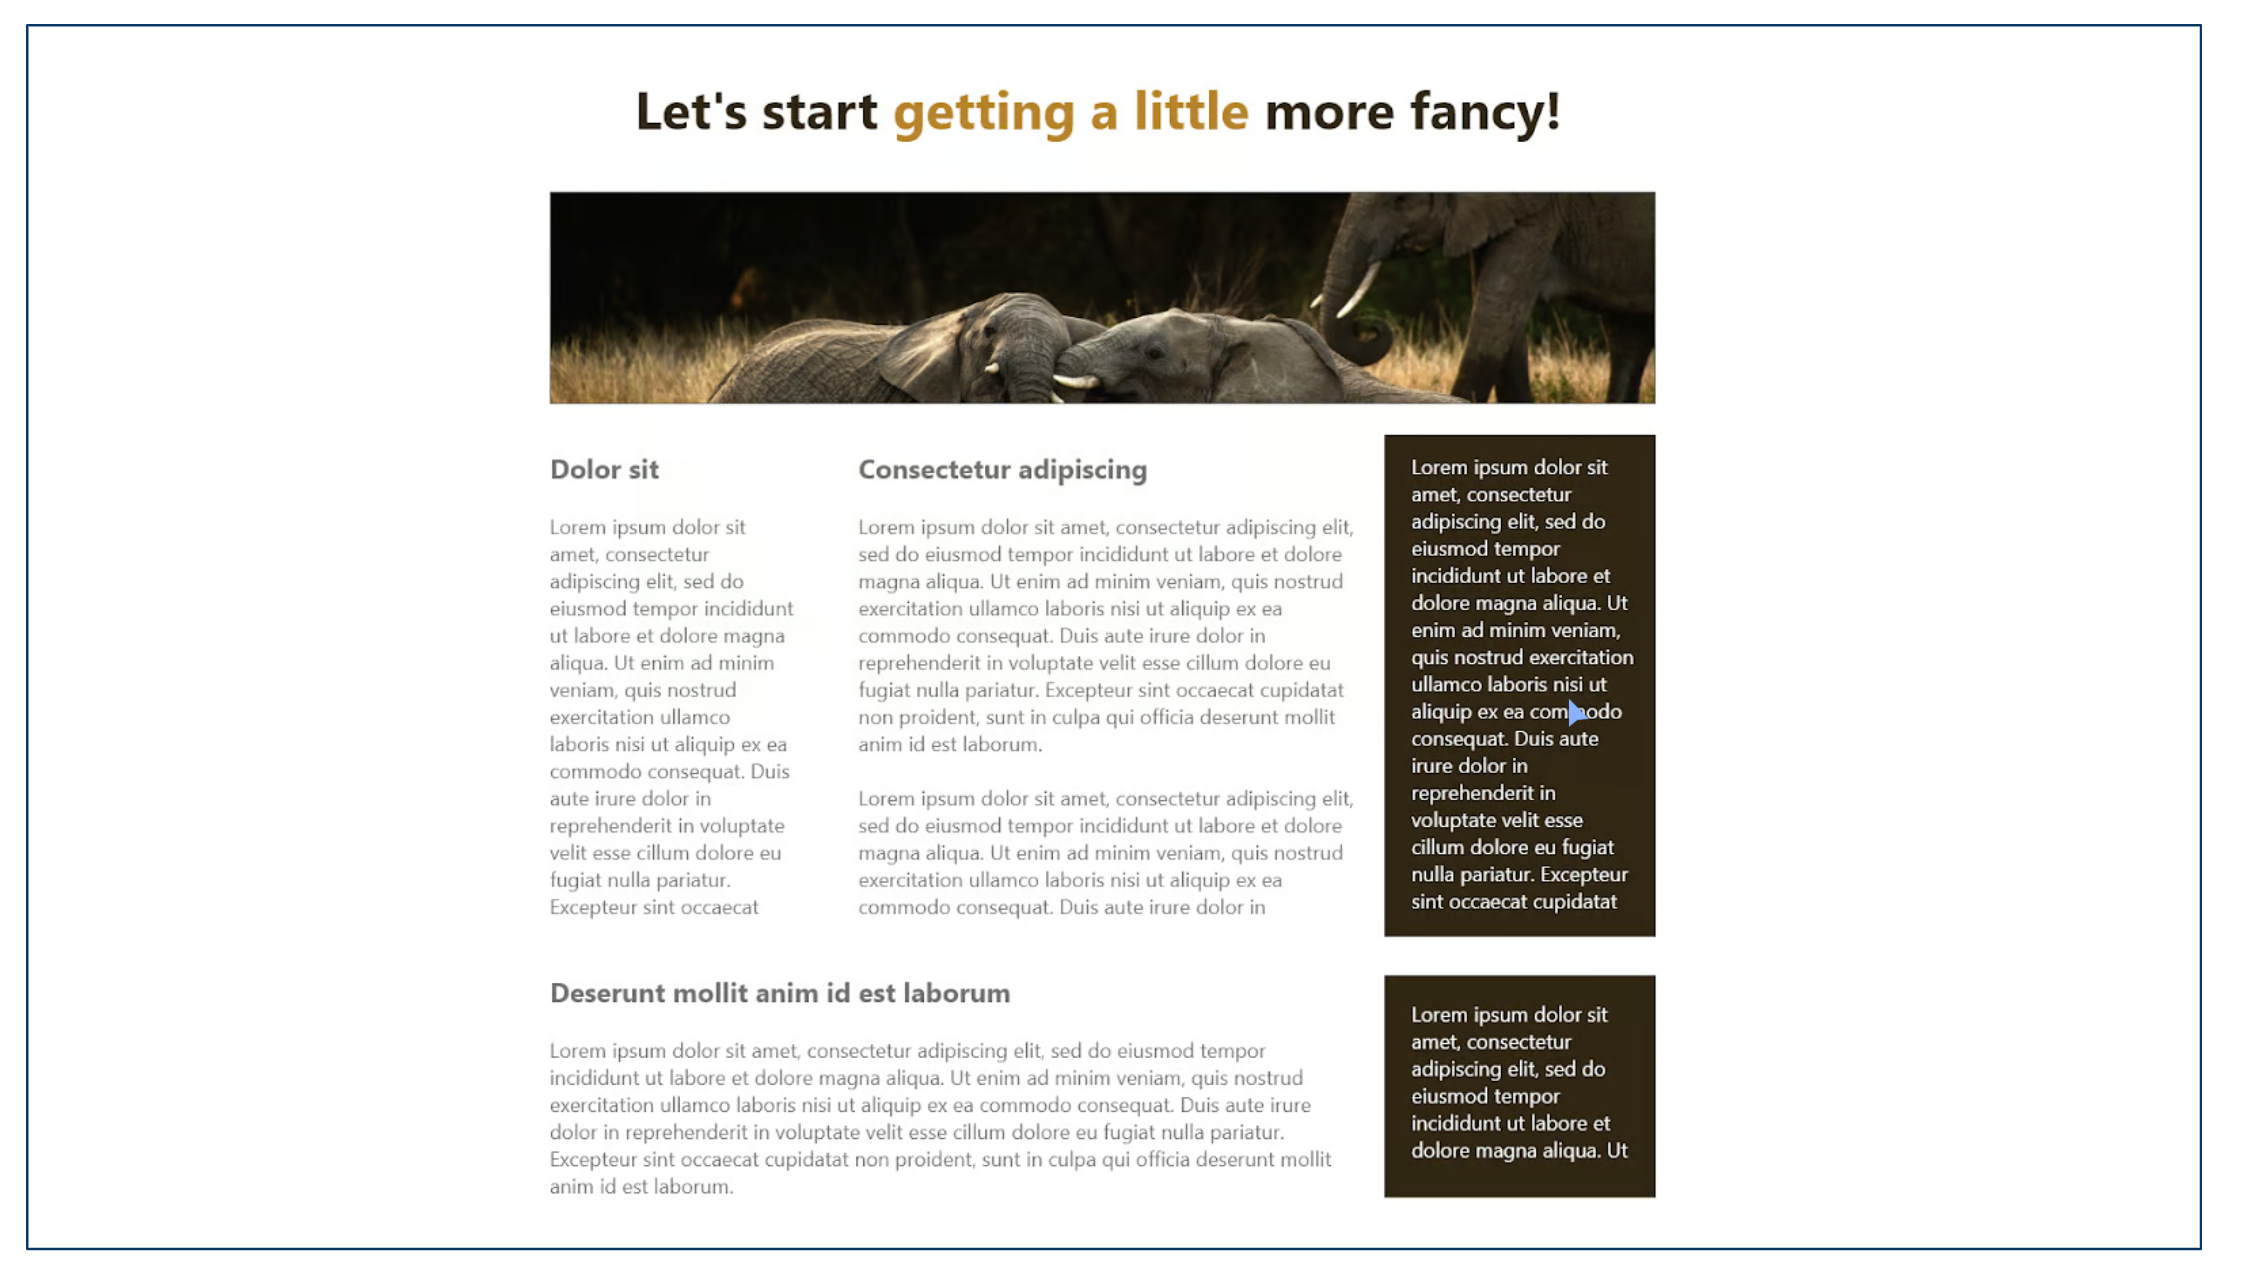
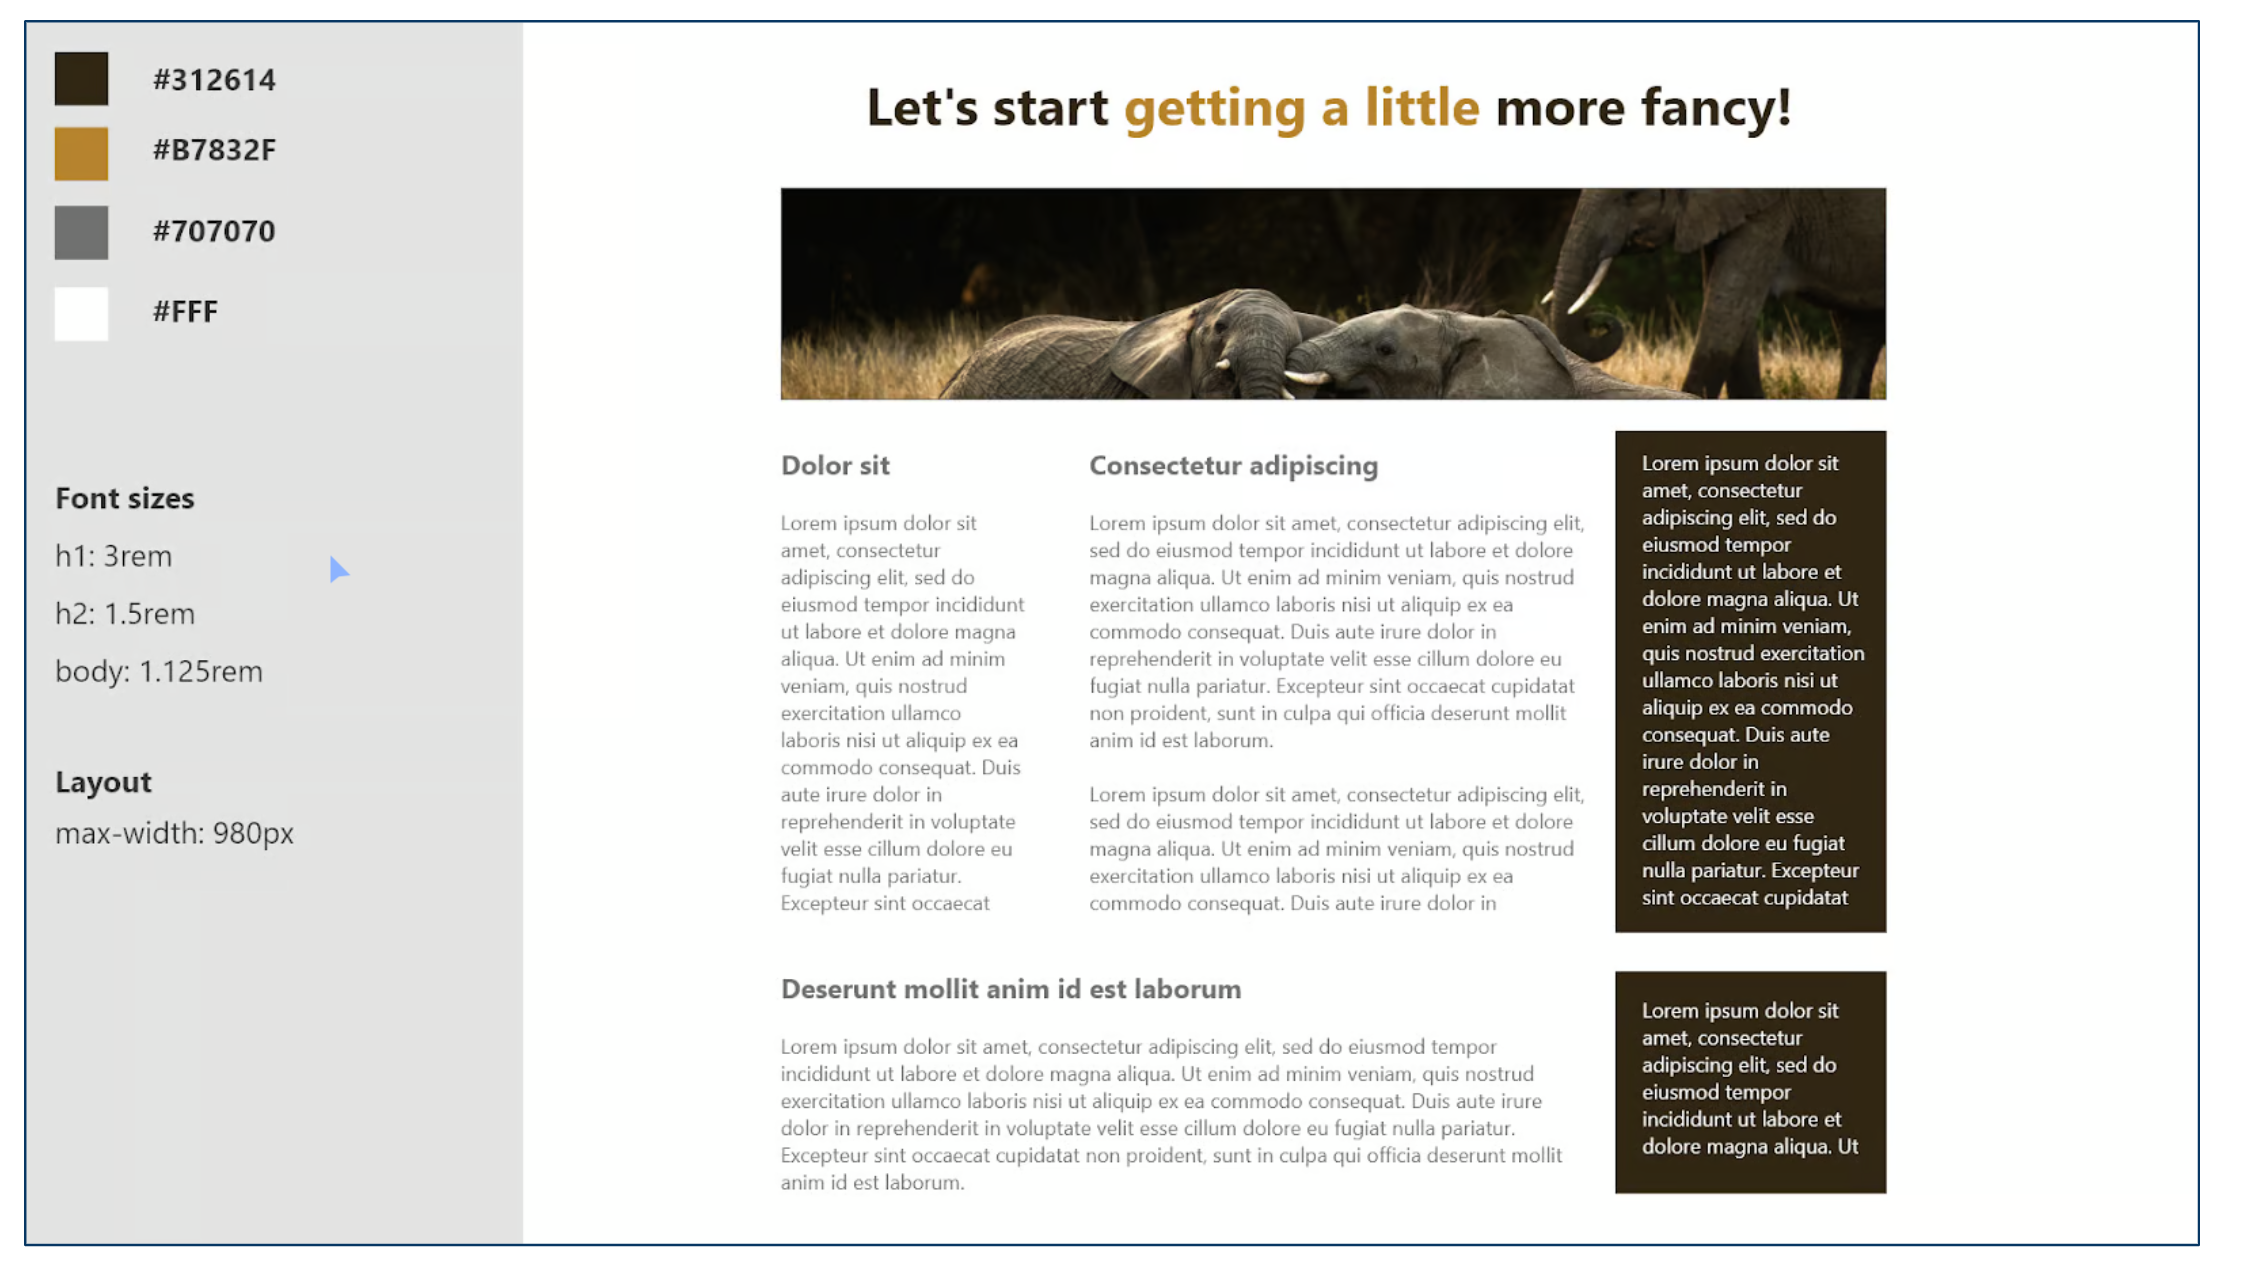
Updated my css file

diff --git a/css/style.css b/css/style.css
@@ -1,0 +1,26 @@
+body {
+  font-size: 1.125rem;
+  margin: 0 auto;
+  background-color: #FFF;
+}
+
+.container {
+  width: 90%;
+  max-width: 980px;
+  margin: 0 auto;
+}
+
+h1{
+  font-size: 3rem;
+}
+
+h2 {
+  font-size: 1.5rem;
+}
+
+img {
+  margin: 0 auto;
+  display: block;
+  padding: 0;
+  width: 100%;
+}
